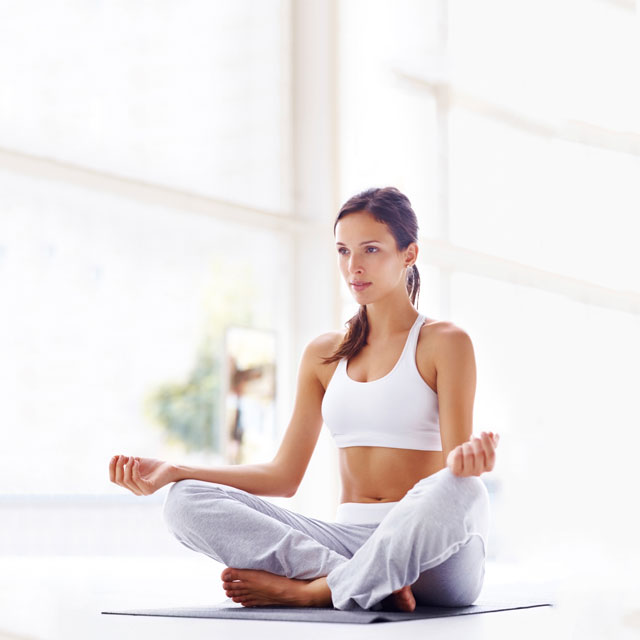
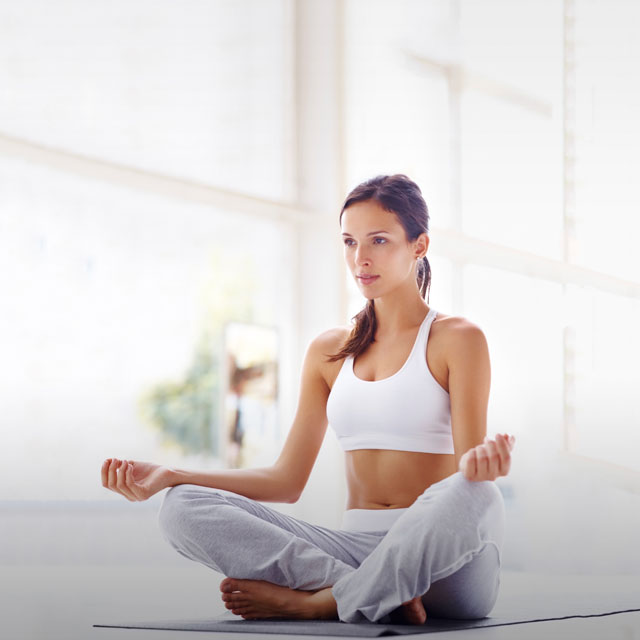
update cover design with right image
Former-commit-id: d79f06aab2b0594b34856b5d8ec69b981a2b5e00

diff --git a/issues/rebalance/assets/custom.scss b/issues/rebalance/assets/custom.scss
@@ -47,6 +47,7 @@ $green: rgba(84, 144, 86, 0.6);
 
   header .title {
     @include header-style;
+    line-height: 0.7em;
   }
 
   .subtitle {
@@ -161,28 +162,39 @@ $green: rgba(84, 144, 86, 0.6);
            1px 1px 0 $green;
 
       font-size: 3.8em;
-      line-height: 1em;
-      margin: 0.75em 0 0;
+      line-height: 0.1em;
+      margin: 1em 0 0;
+      
+      &:before {
+        content: "Find Your Natural";
+        font-size: 0.45em;
+        position: absolute;
+        text-transform: uppercase;
+        padding: 0;
+        margin: -1.8em 0 0;
+        text-shadow: -1px -1px 0 $green, 1px -1px 0 $green, -1px 1px 0 $green, 1px 1px 0 $green;
+        font-weight: bold;
+        letter-spacing: 0.25em;
+        font-family: "HelveticaNeue-CondensedBold";
+        white-space: nowrap;
+      }
     }
 
     .description {
-      position: static;
+      font-family: 'proxima-nova';
       text-transform: uppercase;
-      padding: 0;
-      margin: -3.8em 0 0;
-
-      text-shadow:
-         -1px -1px 0 $green,
-          1px -1px 0 $green,
-          -1px 1px 0 $green,
-           1px 1px 0 $green;
-
-      font-size: 1.55em;
-      font-weight: bold;
-      letter-spacing: 8px;
-      font-family: "HelveticaNeue-CondensedBold";
-      white-space: nowrap;
+      font-size: 14px;
+      letter-spacing: 2px;
+      border: 0.5px solid rgba(255,255,255,0.5);
+      padding: 0.5em 0;
+      border-width: 1px 0;
+      margin: 0 auto 2vmin;
+      text-shadow: 0px 0px 10px rgba(0,0,0,0.3);
+      line-height: 1;
+      left: 30px;
+      right: 30px;
     }
+
 
     .issue-logo {
       display: none;
@@ -217,10 +229,18 @@ $green: rgba(84, 144, 86, 0.6);
       .title {
         font-size: 10vmin;
 //        margin-right: 5%;
+//        font-size: 0.47em;
+
+        &:before {
+          font-size: 0.44em;
+          
+        }
       }
 
       .description {
-        font-size: 4.5vmin;
+        font-size: 3vmin;
+        width: 25em;
+        margin: 0 auto 1em;
       }
     }
   }
@@ -523,6 +543,7 @@ $green: rgba(84, 144, 86, 0.6);
       font-size: 14px;
       padding: 15px 20px;
       font-weight: bold;
+      opacity: 1;
     }
 
     a {
@@ -1147,7 +1168,7 @@ $green: rgba(84, 144, 86, 0.6);
 
 @keyframes zoom-cover {
 	0% {
-    background-position: 50% 20%;
+    background-position: 50% 40%;
 //    background-size: cover;
 //    transform: scale(1);
 //    opacity: 0.8;
